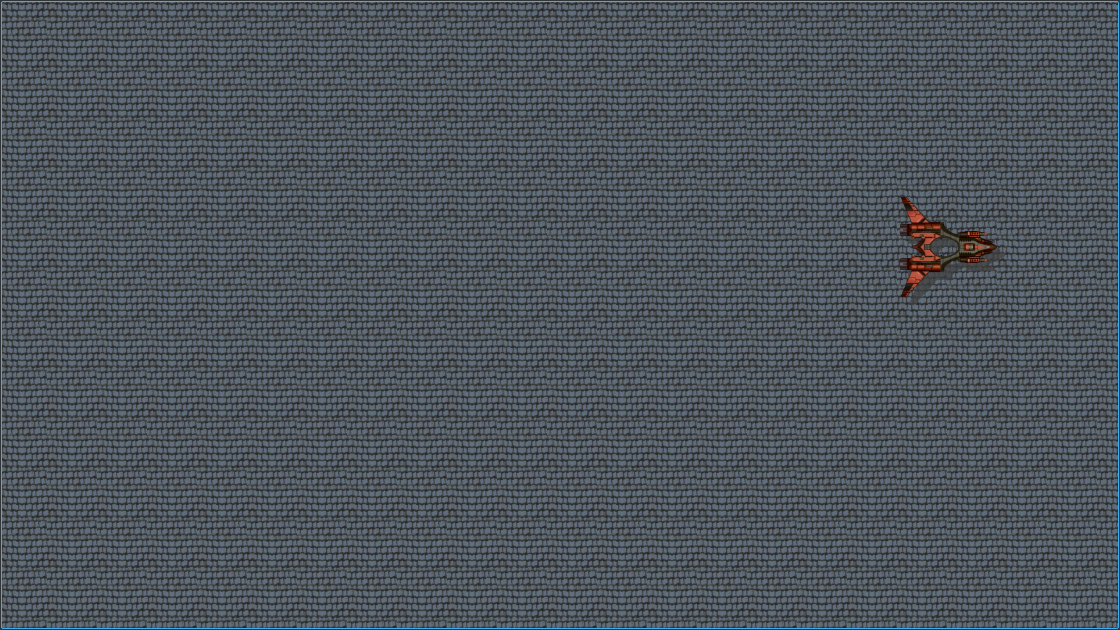
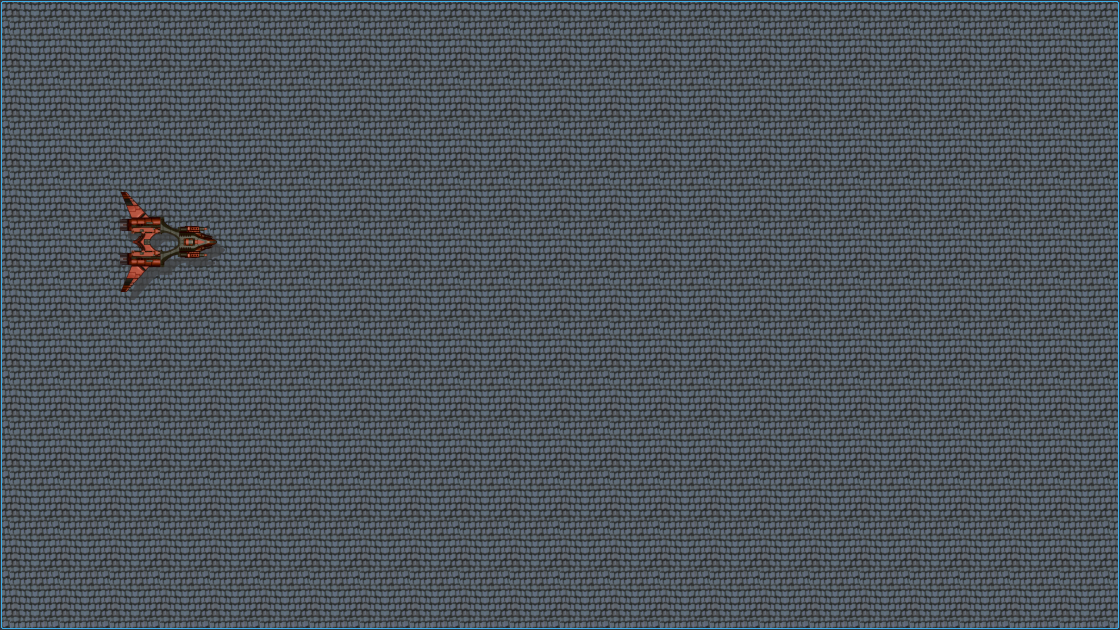
Project Update

diff --git a/Sources/Source Files/Game/MyShip.cpp b/Sources/Source Files/Game/MyShip.cpp
@@ -3,13 +3,14 @@
 //
 
 #include <Sources/Headers/Game/MyShip.h>
+#include <Sources/Headers/Game/MyBullet.h>
 
 MyShip::MyShip(QGraphicsItem *parent) :
 		QGraphicsPixmapItem(parent), QObject() {
 	setGraphicsEffect(new QGraphicsDropShadowEffect());
 	setPos(MyRes::x_offset, MyRes::y_offset);
-	vlc = new QPointF(0.0, 0.0);
-	shpshld = new MyShipShield(MyRes::shp_shld_add);
+	vlc = new QPointF(0, 0);
+	shpshld = new MyShipShield();
 	shpshld->setGraphicsEffect(new QGraphicsDropShadowEffect());
 	shld_tmr = new QTimer();
 	QTimer::connect(shld_tmr, SIGNAL(timeout()), this, SLOT(deactivate_shld()));
@@ -19,12 +20,12 @@ MyShip::MyShip(QGraphicsItem *parent) :
 }
 
 MyShip::MyShip(const QPixmap &pixmap, QGraphicsItem *parent) :
-		QGraphicsPixmapItem(pixmap.scaled(QSize(100, 100), Qt::KeepAspectRatio,
+		QGraphicsPixmapItem(pixmap.scaled(MyRes::shp_size, Qt::KeepAspectRatio,
 		                                  Qt::SmoothTransformation), parent), QObject() {
 	setGraphicsEffect(new QGraphicsDropShadowEffect());
 	setPos(MyRes::x_offset, MyRes::y_offset);
-	vlc = new QPointF(0.0, 0.0);
-	shpshld = new MyShipShield(MyRes::shp_shld_add);
+	vlc = new QPointF(0, 0);
+	shpshld = new MyShipShield();
 	shpshld->setGraphicsEffect(new QGraphicsDropShadowEffect());
 	shld_tmr = new QTimer();
 	QTimer::connect(shld_tmr, SIGNAL(timeout()), this, SLOT(deactivate_shld()));
@@ -134,7 +135,6 @@ void MyShip::cllsn_dtctn() {
 void MyShip::updt_vlc(QSet<int> *prsd_kys) {
 	vlc->setY(0);
 	vlc->setX(0);
-//	vlc->setX(MyRes::vw_mvmnt);
 
 	if (prsd_kys->find(Qt::Key_Up) != prsd_kys->end())
 		vlc->setY(vlc->y() - MyRes::shp_mvmnt);
@@ -144,6 +144,24 @@ void MyShip::updt_vlc(QSet<int> *prsd_kys) {
 		vlc->setX(vlc->x() - MyRes::shp_mvmnt);
 	if (prsd_kys->find(Qt::Key_Right) != prsd_kys->end())
 		vlc->setX(vlc->x() + MyRes::shp_mvmnt);
+	if (prsd_kys->find(Qt::Key_Space) != prsd_kys->end()) {
+		// Fire Bullet
+		if (mgc) {
+			MyBullet *tmp = new MyBullet(0, 0);
+			tmp->setPos(pos().x() + pixmap().width(),
+			            pos().y() + (pixmap().height() / 2) - (MyRes::lsr_size.height() / 2));
+			scene()->addItem(tmp);
+		}
+		else {
+			for (int i = -45; i <= 45; i += 9) {
+				MyBullet *tmp = new MyBullet(0, i);
+				tmp->setPos(pos().x() + pixmap().width(),
+				            pos().y() + (pixmap().height() / 2) - (MyRes::lsr_size.height() / 2));
+				scene()->addItem(tmp);
+			}
+		}
+	}
+
 }
 
 void MyShip::updt_rtn() {

diff --git a/Sources/Source Files/Game/MyBullet.cpp b/Sources/Source Files/Game/MyBullet.cpp
@@ -4,16 +4,14 @@
 
 #include <Sources/Headers/Game/MyBullet.h>
 
-MyBullet::MyBullet(QGraphicsItem *parent) :
-		QGraphicsPixmapItem(parent) {
+MyBullet::MyBullet(int lsr_num, int rtn, QGraphicsItem *parent) :
+		QGraphicsPixmapItem(QPixmap(MyRes::lsr_add[lsr_num]).scaled(MyRes::lsr_size, Qt::KeepAspectRatio,
+		                                                            Qt::SmoothTransformation), parent) {
 	setGraphicsEffect(new QGraphicsDropShadowEffect());
-	vlc = new QPointF(0, 0);
-}
-
-MyBullet::MyBullet(const QPixmap &pixmap, QGraphicsItem *parent) :
-		QGraphicsPixmapItem(pixmap, parent) {
-	setGraphicsEffect(new QGraphicsDropShadowEffect());
-	vlc = new QPointF(0, 0);
+	MyBullet::rtn = rtn;
+	vlc = new QPointF(MyRes::lsr_mvmnt * cos(rtn * M_PI / 180.0), MyRes::lsr_mvmnt * sin(rtn * M_PI / 180.0));
+	setTransformOriginPoint(0, pixmap().height() / 2);
+	setRotation(rtn);
 }
 
 MyBullet::~MyBullet() {
@@ -21,5 +19,7 @@ MyBullet::~MyBullet() {
 }
 
 void MyBullet::updt() {
-	setPos(pos().x() + vlc->x(), pos().y() + vlc->y());
+//	setTransformOriginPoint(0, pixmap().height() / 2);
+//	setRotation(rtn);
+	setPos(pos().x() + MyRes::vw_mvmnt + vlc->x(), pos().y() + vlc->y());
 }

diff --git a/Sources/Source Files/Game/MyGame.cpp b/Sources/Source Files/Game/MyGame.cpp
@@ -9,27 +9,13 @@ MyGame::MyGame(QWidget *parent) :
 	prsd_kys = new QSet<int>();
 	resize(MyRes::app_size);
 
-	// Test
 	gscn = new QGraphicsScene();
 	gscn->setSceneRect(MyRes::scn_rct);
 	gscn->setBackgroundBrush(
 			QBrush(QImage(MyRes::env_adds[SettingData::env]).scaled(MyRes::tl_size, Qt::KeepAspectRatio,
 			                                                        Qt::SmoothTransformation)));
+	// Test
 	tmp = new MyShip(QPixmap(MyRes::shp_adds[SettingData::uShp]));
-
-	tmp1 = new MyAsteroid();
-	tmp1->setPos(1000, 100);
-	gscn->addItem(tmp1);
-//	tmp2 = new MyMagic();
-//	tmp2->setPos(1050, 100);
-//	gscn->addItem(tmp2);
-//	tmp3 = new MyShield();
-//	tmp3->setPos(1100, 100);
-//	gscn->addItem(tmp3);
-//	tmp4 = new MyStar();
-//	tmp4->setPos(1100, 100);
-//	gscn->addItem(tmp4);
-
 	gscn->addItem(tmp);
 	gscn->addItem(tmp->shpshld);
 	setScene(gscn);
@@ -74,5 +60,7 @@ void MyGame::timerEvent(QTimerEvent *event) {
 				dynamic_cast<MyShip *>(i)->updt(prsd_kys);
 			if (dynamic_cast<MyAsteroid *>(i))
 				dynamic_cast<MyAsteroid *>(i)->updt();
+			if (dynamic_cast<MyBullet *>(i))
+				dynamic_cast<MyBullet *>(i)->updt();
 		}
 }

diff --git a/Sources/Headers/Resources.h b/Sources/Headers/Resources.h
@@ -18,6 +18,7 @@ namespace MyRes {
     const int gm_drtn = 120000;
     const int vw_mvmnt = 1;
     const int shp_mvmnt = 5;
+    const int lsr_mvmnt = 40;
     const int lsr_cnt = 2;
     const int mgc_cnt = 4;
     const int env_cnt = 16;
@@ -34,6 +35,7 @@ namespace MyRes {
     const int x_offset = 10;
     const int y_offset = 15;
     extern const QSize lf_size;
+    extern const QSize lsr_size;
     extern const QSize str_size;
     extern const QSize mgc_size;
     extern const QSize shld_size;

diff --git a/Sources/Headers/Game/MyBullet.h b/Sources/Headers/Game/MyBullet.h
@@ -10,18 +10,19 @@
 #include <QElapsedTimer>
 #include <QPointF>
 #include <QPixmap>
+#include <Sources/Headers/Resources.h>
 
 class MyBullet : public QGraphicsPixmapItem {
 public:
-	MyBullet(QGraphicsItem *parent = 0);
-
-	MyBullet(const QPixmap &pixmap, QGraphicsItem *parent = 0);
+	MyBullet(int, int, QGraphicsItem *parent = 0);
 
 	~MyBullet();
 
 	void updt();
 
 private:
+	int rtn;
+
 	QPointF *vlc;
 };
 

diff --git a/Sources/Source Files/Game/MyShipShield.cpp b/Sources/Source Files/Game/MyShipShield.cpp
@@ -11,12 +11,6 @@ MyShipShield::MyShipShield(QGraphicsItem *parent) :
 	vlc = new QPointF(0, 0);
 }
 
-MyShipShield::MyShipShield(const QPixmap &pixmap, QGraphicsItem *parent) :
-		QGraphicsPixmapItem(pixmap, parent) {
-	setGraphicsEffect(new QGraphicsDropShadowEffect());
-	vlc = new QPointF(0, 0);
-}
-
 MyShipShield::~MyShipShield() {
 
 }

diff --git a/Sources/Source Files/Game/MyShield.cpp b/Sources/Source Files/Game/MyShield.cpp
@@ -11,12 +11,6 @@ MyShield::MyShield(QGraphicsItem *parent) :
 	vlc = new QPointF(0, 0);
 }
 
-MyShield::MyShield(const QPixmap &pixmap, QGraphicsItem *parent) :
-		QGraphicsPixmapItem(pixmap, parent) {
-	setGraphicsEffect(new QGraphicsDropShadowEffect());
-	vlc = new QPointF(0, 0);
-}
-
 MyShield::~MyShield() {
 
 }

diff --git a/Sources/Source Files/Game/MyMagic.cpp b/Sources/Source Files/Game/MyMagic.cpp
@@ -12,12 +12,6 @@ MyMagic::MyMagic(QGraphicsItem *parent) :
 	vlc = new QPointF(0, 0);
 }
 
-MyMagic::MyMagic(const QPixmap &pixmap, QGraphicsItem *parent) :
-		QGraphicsPixmapItem(pixmap, parent) {
-	setGraphicsEffect(new QGraphicsDropShadowEffect());
-	vlc = new QPointF(0, 0);
-}
-
 MyMagic::~MyMagic() {
 
 }

diff --git a/Sources/Source Files/Game/MyLife.cpp b/Sources/Source Files/Game/MyLife.cpp
@@ -11,12 +11,6 @@ MyLife::MyLife(QGraphicsItem *parent) :
 	vlc = new QPointF(0, 0);
 }
 
-MyLife::MyLife(const QPixmap &pixmap, QGraphicsItem *parent) :
-		QGraphicsPixmapItem(pixmap, parent) {
-	setGraphicsEffect(new QGraphicsDropShadowEffect());
-	vlc = new QPointF(0, 0);
-}
-
 MyLife::~MyLife() {
 
 }

diff --git a/Sources/Source Files/Game/MyStar.cpp b/Sources/Source Files/Game/MyStar.cpp
@@ -11,12 +11,6 @@ MyStar::MyStar(QGraphicsItem *parent) :
 	vlc = new QPointF(0, 0);
 }
 
-MyStar::MyStar(const QPixmap &pixmap, QGraphicsItem *parent) :
-		QGraphicsPixmapItem(pixmap, parent) {
-	setGraphicsEffect(new QGraphicsDropShadowEffect());
-	vlc = new QPointF(0, 0);
-}
-
 MyStar::~MyStar() {
 
 }

diff --git a/Sources/Source Files/Resources.cpp b/Sources/Source Files/Resources.cpp
@@ -7,6 +7,7 @@
 namespace MyRes {
     // Game properties
     const QSize lf_size(35, 35);
+    const QSize lsr_size(30, 8);
     const QSize str_size(30, 30);
     const QSize mgc_size(40, 40);
     const QSize shld_size(43, 43);

diff --git a/Sources/Headers/Game/MyShipShield.h b/Sources/Headers/Game/MyShipShield.h
@@ -16,8 +16,6 @@ class MyShipShield : public QGraphicsPixmapItem {
 public:
 	MyShipShield(QGraphicsItem *parent = 0);
 
-	MyShipShield(const QPixmap &pixmap, QGraphicsItem *parent = 0);
-
 	~MyShipShield();
 
 	void updt();
